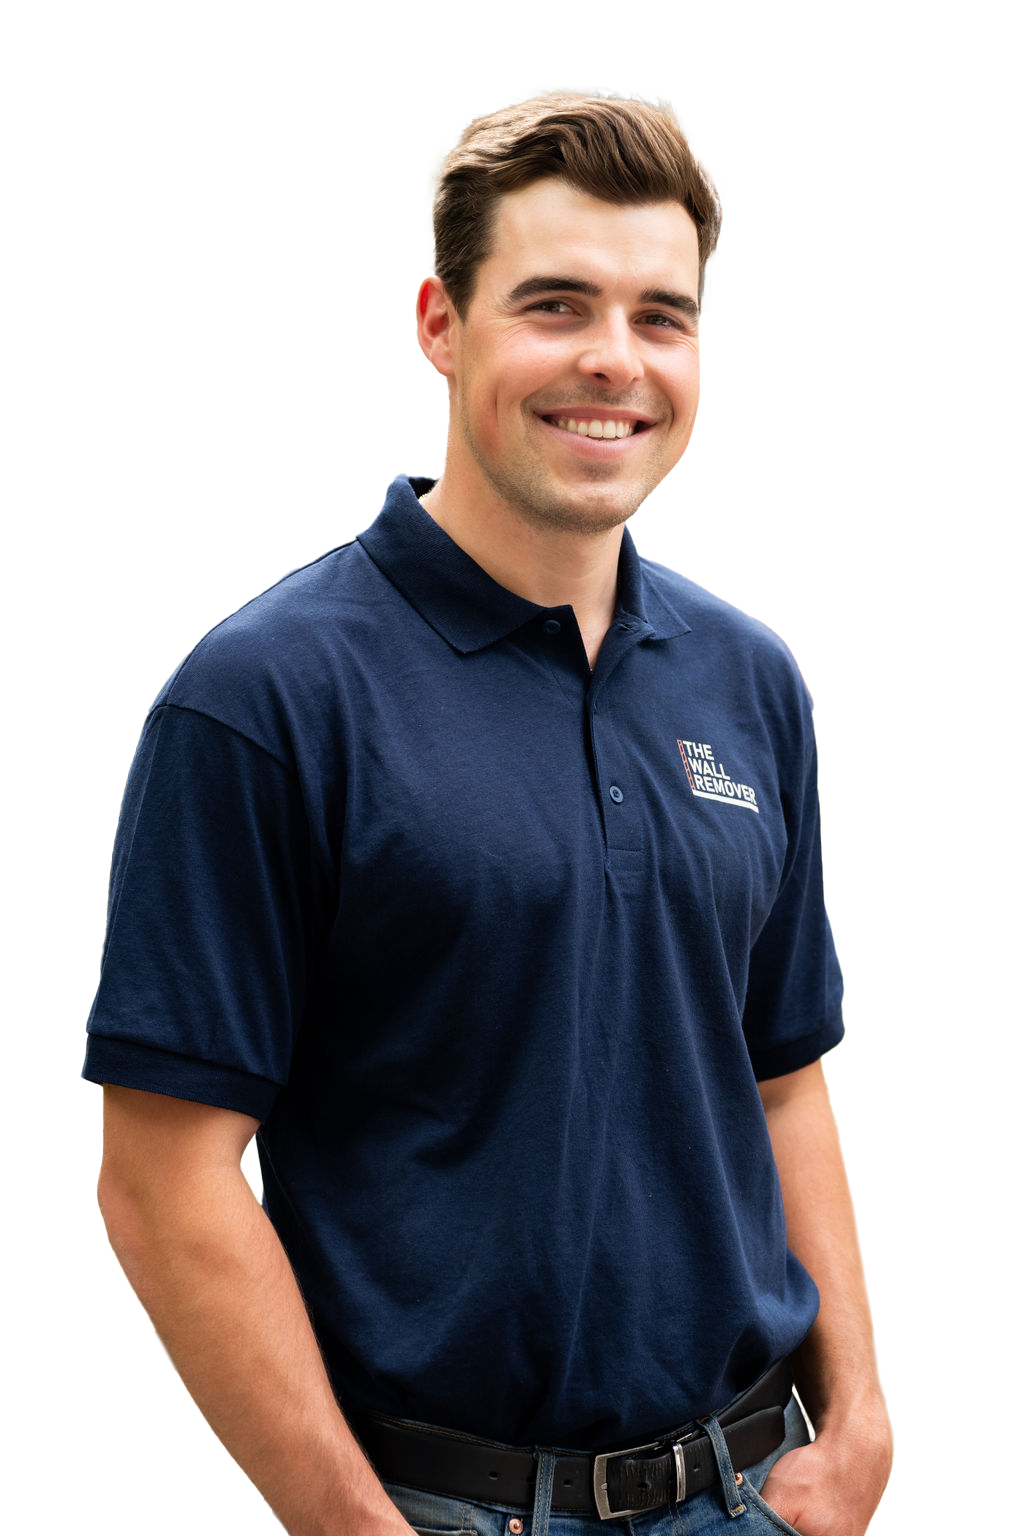
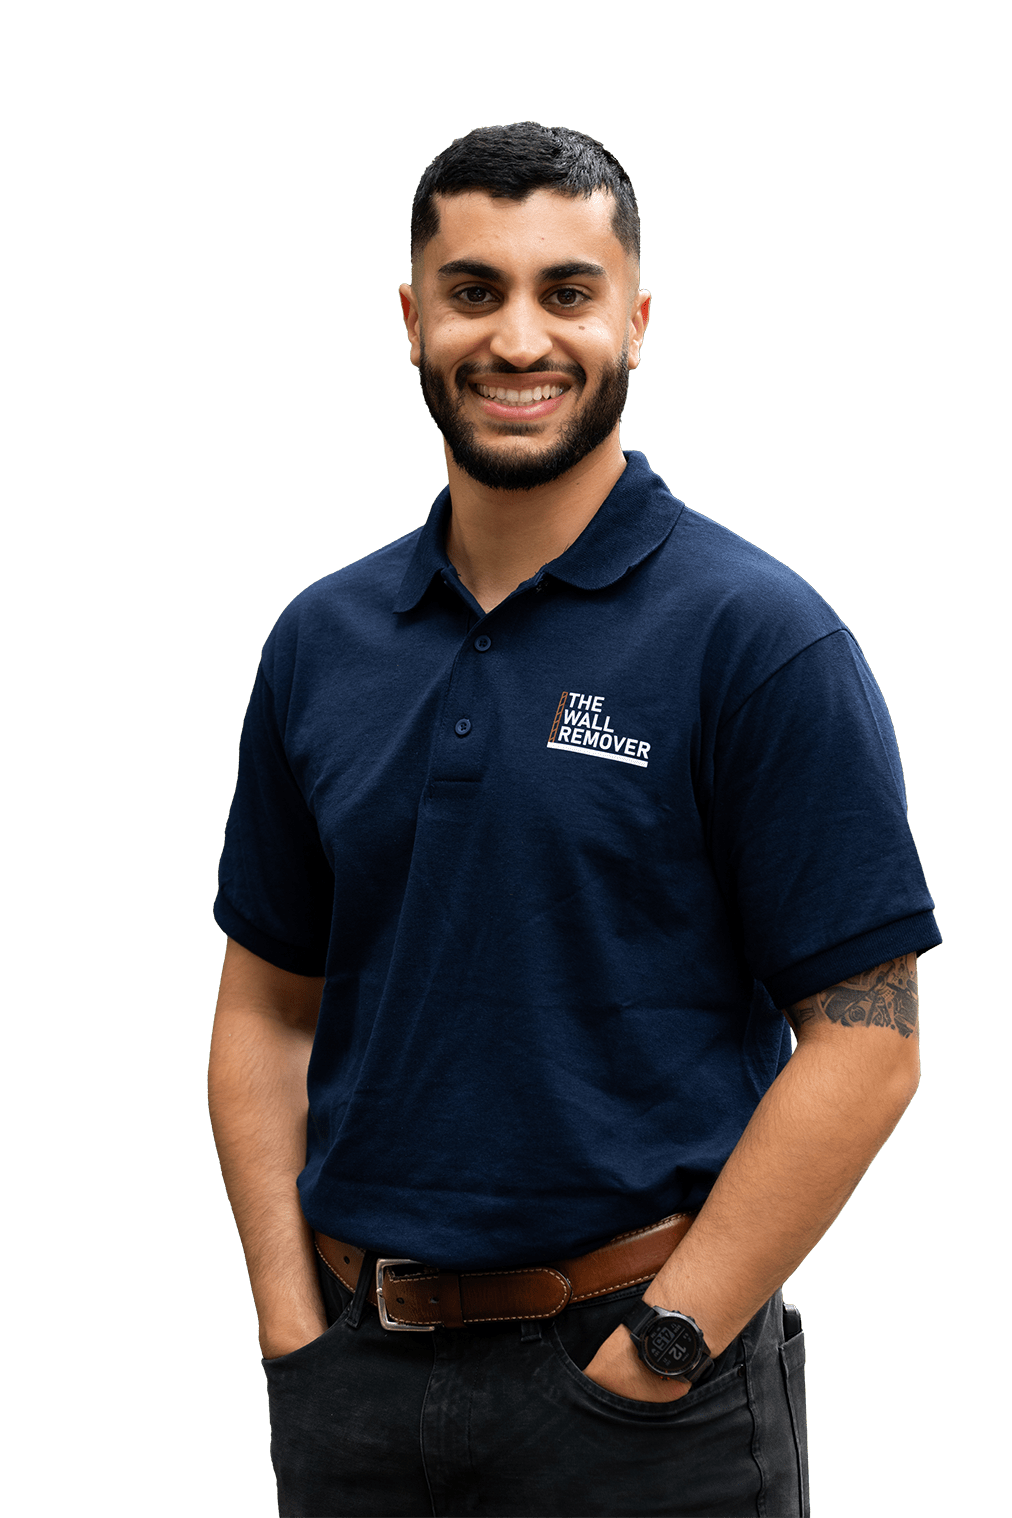
update cta and testi images

diff --git a/about.html b/about.html
@@ -693,7 +693,7 @@
                                                     <i class="fal fa-quote-right"></i>
                                                 </div>
                                                 <div class="client-items">
-                                                    <div class="client-image bg-cover" style="background-image: url('https://images.pexels.com/photos/614810/pexels-photo-614810.jpeg?auto=compress&cs=tinysrgb&w=1260&h=750&dpr=2');"></div>
+                                                    <div class="client-image bg-cover" style="background-image: url('./assets/img/testimonial/face-1.png');"></div>
                                                     <div class="client-content">
                                                         <h3>Jun Park</h3>
                                                         <span>Richmond Hill Resident</span>
@@ -717,7 +717,7 @@
                                                     <i class="fal fa-quote-right"></i>
                                                 </div>
                                                 <div class="client-items">
-                                                    <div class="client-image bg-cover" style="background-image: url('https://images.pexels.com/photos/2379005/pexels-photo-2379005.jpeg?auto=compress&cs=tinysrgb&w=1260&h=750&dpr=2');"></div>
+                                                    <div class="client-image bg-cover" style="background-image: url('./assets/img/testimonial/face-2.png');"></div>
                                                     <div class="client-content">
                                                         <h3>Deborah Freeland</h3>
                                                         <span>Mississauga resident</span>

diff --git a/index.html b/index.html
@@ -730,7 +730,7 @@
                                                     <i class="fal fa-quote-right"></i>
                                                 </div>
                                                 <div class="client-items">
-                                                    <div class="client-image bg-cover" style="background-image: url('https://images.pexels.com/photos/614810/pexels-photo-614810.jpeg?auto=compress&cs=tinysrgb&w=1260&h=750&dpr=2');"></div>
+                                                    <div class="client-image bg-cover" style="background-image: url('./assets/img/testimonial/face-1.png');"></div>
                                                     <div class="client-content">
                                                         <h3>Jun Park</h3>
                                                         <span>Richmond Hill Resident</span>
@@ -754,7 +754,7 @@
                                                     <i class="fal fa-quote-right"></i>
                                                 </div>
                                                 <div class="client-items">
-                                                    <div class="client-image bg-cover" style="background-image: url('https://images.pexels.com/photos/2379005/pexels-photo-2379005.jpeg?auto=compress&cs=tinysrgb&w=1260&h=750&dpr=2');"></div>
+                                                    <div class="client-image bg-cover" style="background-image: url('./assets/img/testimonial/face-2.png');"></div>
                                                     <div class="client-content">
                                                         <h3>Deborah Freeland</h3>
                                                         <span>Mississauga resident</span>
